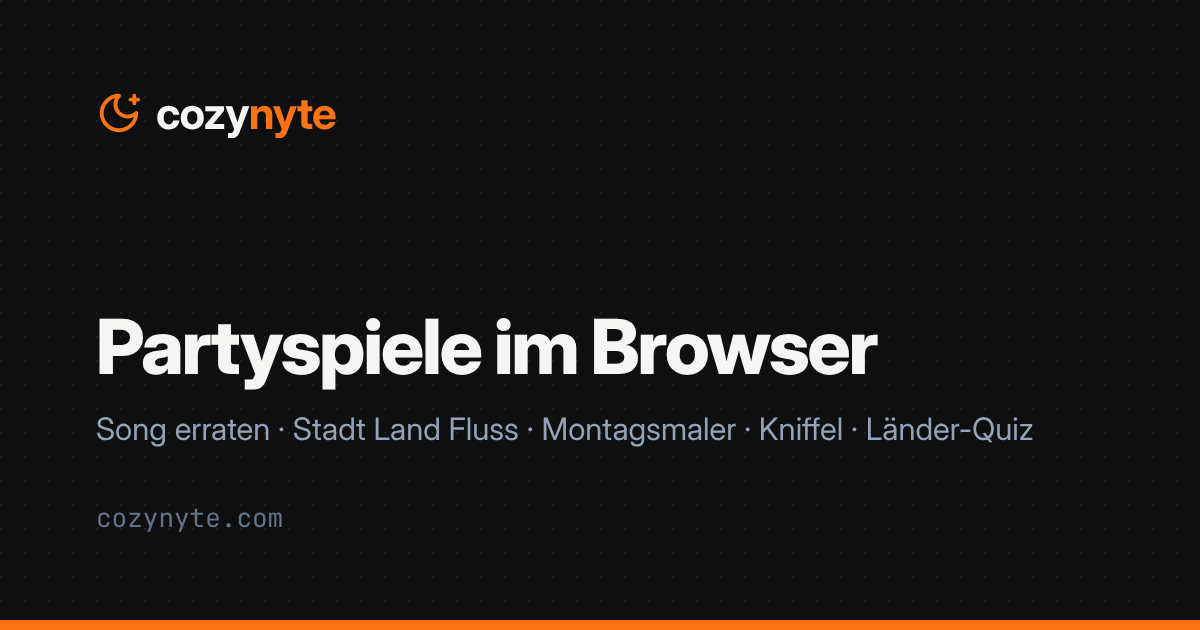
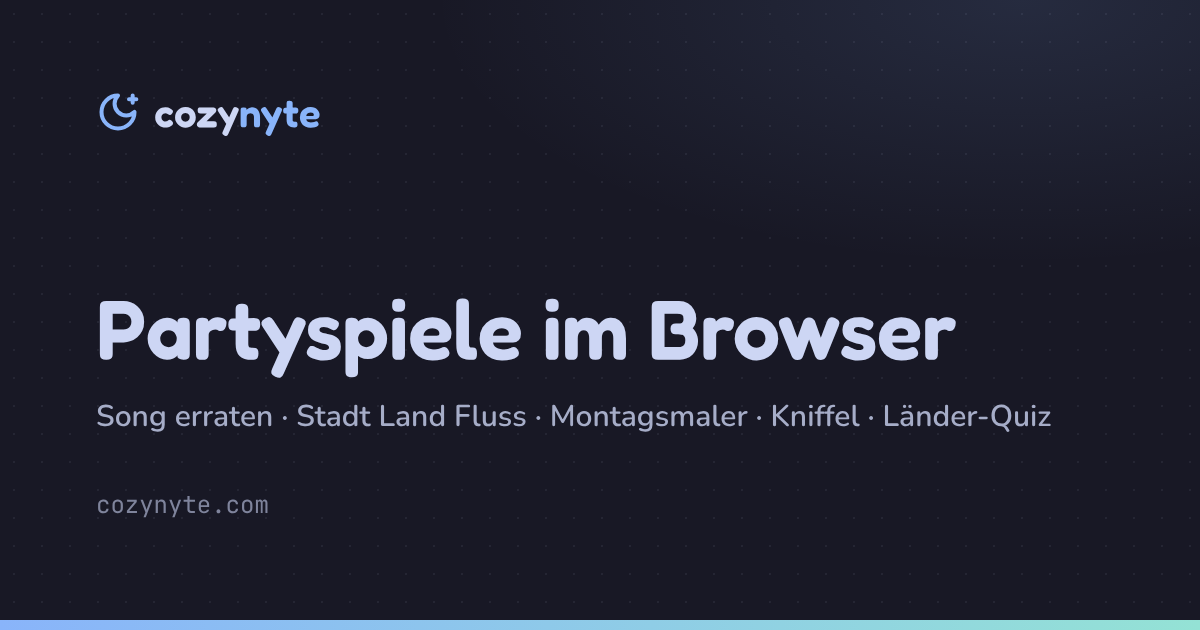
changed standard theme

diff --git a/client/src/components/Navbar.tsx b/client/src/components/Navbar.tsx
@@ -1,8 +1,27 @@
 import { FaMoon, FaSun } from "react-icons/fa";
-import { LuLamp, LuMoonStar } from "react-icons/lu";
+import { LuMoonStar } from "react-icons/lu";
 import { Link } from "react-router-dom";
-import { nextPalette, type Palette, type Theme } from "../hooks/useTheme";
+import { PALETTES, nextPalette, type Palette, type Theme } from "../hooks/useTheme";
 import { useLanguage } from "../lib/i18n";
+
+/**
+ * Punkte im Design-Knopf: Akzentfarbe jedes Designs (hell/dunkel) und das Leuchten des aktiven
+ * Punkts in derselben Farbe – wie kleine Planeten.
+ */
+const PALETTE_DOT: Record<Palette, { dot: string; glow: string }> = {
+  cozy: {
+    dot: "bg-[#1e66f5] dark:bg-[#89b4fa]",
+    glow: "shadow-[0_0_6px_2px_rgba(30,102,245,0.6),0_0_16px_4px_rgba(30,102,245,0.3)] dark:shadow-[0_0_6px_2px_rgba(137,180,250,0.6),0_0_16px_4px_rgba(137,180,250,0.3)]",
+  },
+  evening: {
+    dot: "bg-[#a8742c] dark:bg-[#e8c48c]",
+    glow: "shadow-[0_0_6px_2px_rgba(168,116,44,0.6),0_0_16px_4px_rgba(168,116,44,0.3)] dark:shadow-[0_0_6px_2px_rgba(232,196,140,0.6),0_0_16px_4px_rgba(232,196,140,0.3)]",
+  },
+  classic: {
+    dot: "bg-[#ea580c] dark:bg-[#f97316]",
+    glow: "shadow-[0_0_6px_2px_rgba(234,88,12,0.6),0_0_16px_4px_rgba(234,88,12,0.3)] dark:shadow-[0_0_6px_2px_rgba(249,115,22,0.6),0_0_16px_4px_rgba(249,115,22,0.3)]",
+  },
+};
 
 interface NavbarProps {
   theme: Theme;
@@ -32,6 +51,38 @@ function Navbar({ theme, onToggleTheme, palette, onTogglePalette, width }: Navba
         </Link>
         {/* Sprache und Design wie in der Navigation des Portfolios. */}
         <div className="flex items-center gap-2">
+          {/* Design wechseln: drei Punkte in den Farben der Designs, der aktive größer und
+              leuchtend. Ganz links mit eigenem Platz, ein feiner Strich trennt sie von Sprache und
+              Hell/Dunkel. Reihenfolge Cozy → Gemütlicher Abend → Klassisch → Cozy … */}
+          <button
+            type="button"
+            onClick={onTogglePalette}
+            aria-label={t.nav.palette(
+              t.nav.palettes[palette],
+              t.nav.palettes[nextPalette(palette)],
+            )}
+            title={t.nav.palette(t.nav.palettes[palette], t.nav.palettes[nextPalette(palette)])}
+            className="group flex h-10 shrink-0 cursor-pointer items-center justify-center rounded-xl px-1.5 outline-none focus-visible:ring-2 focus-visible:ring-(--accent-border)"
+          >
+            {/* Ohne Rahmen – die Punkte wirken wie kleine Planeten; beim Drüberfahren rücken sie
+                etwas auseinander. */}
+            <span
+              aria-hidden="true"
+              className="flex items-center gap-1.5 transition-all group-hover:gap-2"
+            >
+              {PALETTES.map((p) => (
+                <span
+                  key={p}
+                  className={`rounded-full transition-all ${PALETTE_DOT[p].dot} ${
+                    p === palette
+                      ? `h-2.5 w-2.5 ${PALETTE_DOT[p].glow}`
+                      : "h-1.5 w-1.5 opacity-50 group-hover:opacity-80"
+                  }`}
+                />
+              ))}
+            </span>
+          </button>
+          <span aria-hidden="true" className="mx-1 h-5 w-px bg-slate-200 dark:bg-white/10" />
           <button
             type="button"
             onClick={toggleLanguage}
@@ -53,24 +104,6 @@ function Navbar({ theme, onToggleTheme, palette, onTogglePalette, width }: Navba
                 </span>
               </span>
             ))}
-          </button>
-          {/* Designs zum Ausprobieren: Klassisch → Cozy → Gemütlicher Abend → Klassisch … */}
-          <button
-            type="button"
-            onClick={onTogglePalette}
-            aria-pressed={palette !== "classic"}
-            aria-label={t.nav.palette(
-              t.nav.palettes[palette],
-              t.nav.palettes[nextPalette(palette)],
-            )}
-            title={t.nav.palette(t.nav.palettes[palette], t.nav.palettes[nextPalette(palette)])}
-            className={`flex h-10 w-10 shrink-0 cursor-pointer items-center justify-center rounded-xl border bg-(--surface) shadow-sm transition hover:border-(--accent) hover:text-(--accent) dark:bg-(--bg-secondary) dark:hover:border-(--accent) ${
-              palette !== "classic"
-                ? "border-(--accent-border) text-(--accent)"
-                : "border-slate-200 text-slate-700 dark:border-(--accent-border) dark:text-(--text-secondary)"
-            }`}
-          >
-            <LuLamp aria-hidden="true" />
           </button>
           <button
             type="button"

diff --git a/client/index.html b/client/index.html
@@ -4,23 +4,27 @@
     <meta charset="UTF-8" />
     <meta name="viewport" content="width=device-width, initial-scale=1.0" />
     <link rel="icon" type="image/svg+xml" href="/favicon.svg" />
+    <link rel="apple-touch-icon" href="/apple-touch-icon.png" />
     <link rel="preload" href="/fonts/inter-latin.woff2" as="font" type="font/woff2" crossorigin />
     <meta name="author" content="Daniel Keller" />
-    <meta name="theme-color" content="#0f0f0f" />
+    <!-- Browserleiste (Handy) in den Farben des blauen Designs: Mocha dunkel, Latte hell. -->
+    <meta name="theme-color" media="(prefers-color-scheme: dark)" content="#181825" />
+    <meta name="theme-color" media="(prefers-color-scheme: light)" content="#eff1f5" />
     <!-- Titel, Beschreibung, Sprachversionen und Link-Vorschau: je Sprache aus src/lib/seo.ts -->
     <!--seo-head-->
 
-    <!-- Dunkles bzw. helles Design (und Cozy-Design) sofort setzen – sonst blitzt die Seite kurz weiß auf. -->
+    <!-- Hell/dunkel und Design sofort setzen – sonst blitzt die Seite kurz in falschen Farben auf.
+         Standard ist das blaue Design „cozy“ (Schlüssel wie in src/hooks/useTheme.ts). -->
     <script>
       try {
         var saved = localStorage.getItem("theme");
         var dark = saved ? saved === "dark" : !matchMedia("(prefers-color-scheme: light)").matches;
         document.documentElement.classList.toggle("dark", dark);
-        var palette = localStorage.getItem("palette");
-        if (palette === "cozy" || palette === "evening")
-          document.documentElement.classList.add(palette);
+        var palette = localStorage.getItem("design");
+        if (palette !== "classic")
+          document.documentElement.classList.add(palette === "evening" ? "evening" : "cozy");
       } catch (e) {
-        document.documentElement.classList.add("dark");
+        document.documentElement.classList.add("dark", "cozy");
       }
     </script>
 

diff --git a/client/src/hooks/useTheme.ts b/client/src/hooks/useTheme.ts
@@ -2,18 +2,25 @@ import { useEffect, useState } from "react";
 
 export type Theme = "light" | "dark";
 /**
- * Farbwelt: das bisherige Orange-Schwarz, „Cozy“ (Catppuccin) oder „Gemütlicher Abend“
- * (Kerzenlicht). Wird als Klasse am <html>-Element gesetzt (außer „classic“).
+ * Farbwelt: „Cozy“ (Catppuccin-Blau, Standard), „Gemütlicher Abend“ (Kerzenlicht) oder das
+ * ursprüngliche Orange-Schwarz. Wird als Klasse am <html>-Element gesetzt (außer „classic“).
  */
-export const PALETTES = ["classic", "cozy", "evening"] as const;
+export const PALETTES = ["cozy", "evening", "classic"] as const;
 export type Palette = (typeof PALETTES)[number];
+
+/**
+ * Speicherschlüssel der Wahl. Neuer Name seit Blau der Standard ist: So landen alle einmal beim
+ * blauen Design (auch wer vorher durchprobiert hat) und können danach wieder frei wählen.
+ * Muss zum Inline-Skript in index.html passen.
+ */
+const PALETTE_KEY = "design";
 
 function getInitialPalette(): Palette {
   try {
-    const saved = localStorage.getItem("palette");
-    return PALETTES.find((p) => p === saved) ?? "classic";
+    const saved = localStorage.getItem(PALETTE_KEY);
+    return PALETTES.find((p) => p === saved) ?? "cozy";
   } catch {
-    return "classic";
+    return "cozy";
   }
 }
 
@@ -40,7 +47,7 @@ export function useTheme() {
     for (const p of PALETTES)
       document.documentElement.classList.toggle(p, p === palette && p !== "classic");
     try {
-      localStorage.setItem("palette", palette);
+      localStorage.setItem(PALETTE_KEY, palette);
     } catch {
       // Ohne Speicher gilt die Wahl nur bis zum Neuladen.
     }

diff --git a/client/src/games/draw/DrawRound.tsx b/client/src/games/draw/DrawRound.tsx
@@ -146,7 +146,7 @@ function DrawRound({ state, draw, offset }: DrawRoundProps) {
               <Overlay>
                 {isDrawer && draw.choices ? (
                   <>
-                    <p className="text-sm font-semibold uppercase tracking-widest text-orange-300">
+                    <p className="text-sm font-semibold uppercase tracking-widest text-[color-mix(in_srgb,var(--accent)_55%,white)]">
                       {t.draw.choose}
                     </p>
                     <div className="mt-3 flex flex-wrap justify-center gap-2 sm:mt-5 sm:gap-3">
@@ -371,7 +371,7 @@ function letterIndices(mask: string): Set<number> {
 
 function Overlay({ children }: { children: ReactNode }) {
   return (
-    <div className="animate-in absolute inset-0 flex flex-col items-center justify-center bg-[radial-gradient(circle_at_50%_40%,rgba(249,115,22,0.18),transparent_60%),linear-gradient(#17181c,#0f0f10)] p-3 text-center sm:p-6">
+    <div className="animate-in absolute inset-0 flex flex-col items-center justify-center bg-[radial-gradient(circle_at_50%_40%,color-mix(in_srgb,var(--accent)_18%,transparent),transparent_60%),linear-gradient(#1e1e2e,#11111b)] p-3 text-center sm:p-6">
       {children}
     </div>
   );

diff --git a/server/src/server.ts b/server/src/server.ts
@@ -23,7 +23,7 @@ app.get("/health", (_req, res) => {
 const assets = path.resolve(path.dirname(fileURLToPath(import.meta.url)), "../assets");
 let outlines: Record<string, { w: number; h: number; d: string }> | undefined;
 
-/** Umriss als fertiges SVG (orange mit dunkler Kante – passt zu hellem und dunklem Modus). */
+/** Umriss als fertiges SVG (Catppuccin-Blau mit dunkler Kante – passt zu hellem und dunklem Modus). */
 function outlineSvg(code: string): string | null {
   outlines ??= JSON.parse(readFileSync(path.join(assets, "outlines.json"), "utf8"));
   const shape = outlines?.[code];
@@ -31,7 +31,7 @@ function outlineSvg(code: string): string | null {
   const pad = 30;
   return (
     `<svg xmlns="http://www.w3.org/2000/svg" viewBox="${-pad} ${-pad} ${shape.w + 2 * pad} ` +
-    `${shape.h + 2 * pad}"><path d="${shape.d}" fill="#f97316" stroke="#9a3412" ` +
+    `${shape.h + 2 * pad}"><path d="${shape.d}" fill="#89b4fa" stroke="#1e66f5" ` +
     `stroke-width="4" stroke-linejoin="round" fill-rule="evenodd"/></svg>`
   );
 }

diff --git a/client/src/lib/seo.ts b/client/src/lib/seo.ts
@@ -227,7 +227,8 @@ export function staticHomeHtml(lang: SeoLanguage): string {
 /** Titel, Beschreibung, Sprachversionen (hreflang) und Link-Vorschau für den <head>. */
 export function headHtml(lang: SeoLanguage): string {
   const s = SEO[lang];
-  const image = new URL("og-image.png", SITE_URL).href;
+  // Vorschaubild für geteilte Links – je Sprache eigenes Bild mit übersetztem Text.
+  const image = new URL(lang === "en" ? "og-image-en.png" : "og-image.png", SITE_URL).href;
   return [
     `<title>${escape(s.metaTitle)}</title>`,
     `<meta name="description" content="${escape(s.metaDescription)}" />`,

diff --git a/README.md b/README.md
@@ -60,8 +60,8 @@ everyone right away.
 **Everywhere**
 
 - Sound effects for every game, generated in the browser, with a volume control
-- German and English UI, light and dark mode, three designs to switch between: Classic (orange/black,
-  like the portfolio), Cozy (Catppuccin colours) and Cozy Evening (warm candlelight tones)
+- German and English UI, light and dark mode, three designs to switch between: Cozy (Catppuccin blue, the
+  default), Cozy Evening (warm candlelight tones) and Classic (orange/black, like the portfolio)
 - Start page in two language versions (`/` German, `/en` English) for search engines
 - Optional "Buy me a coffee" link in the footer and on the final screen
 
